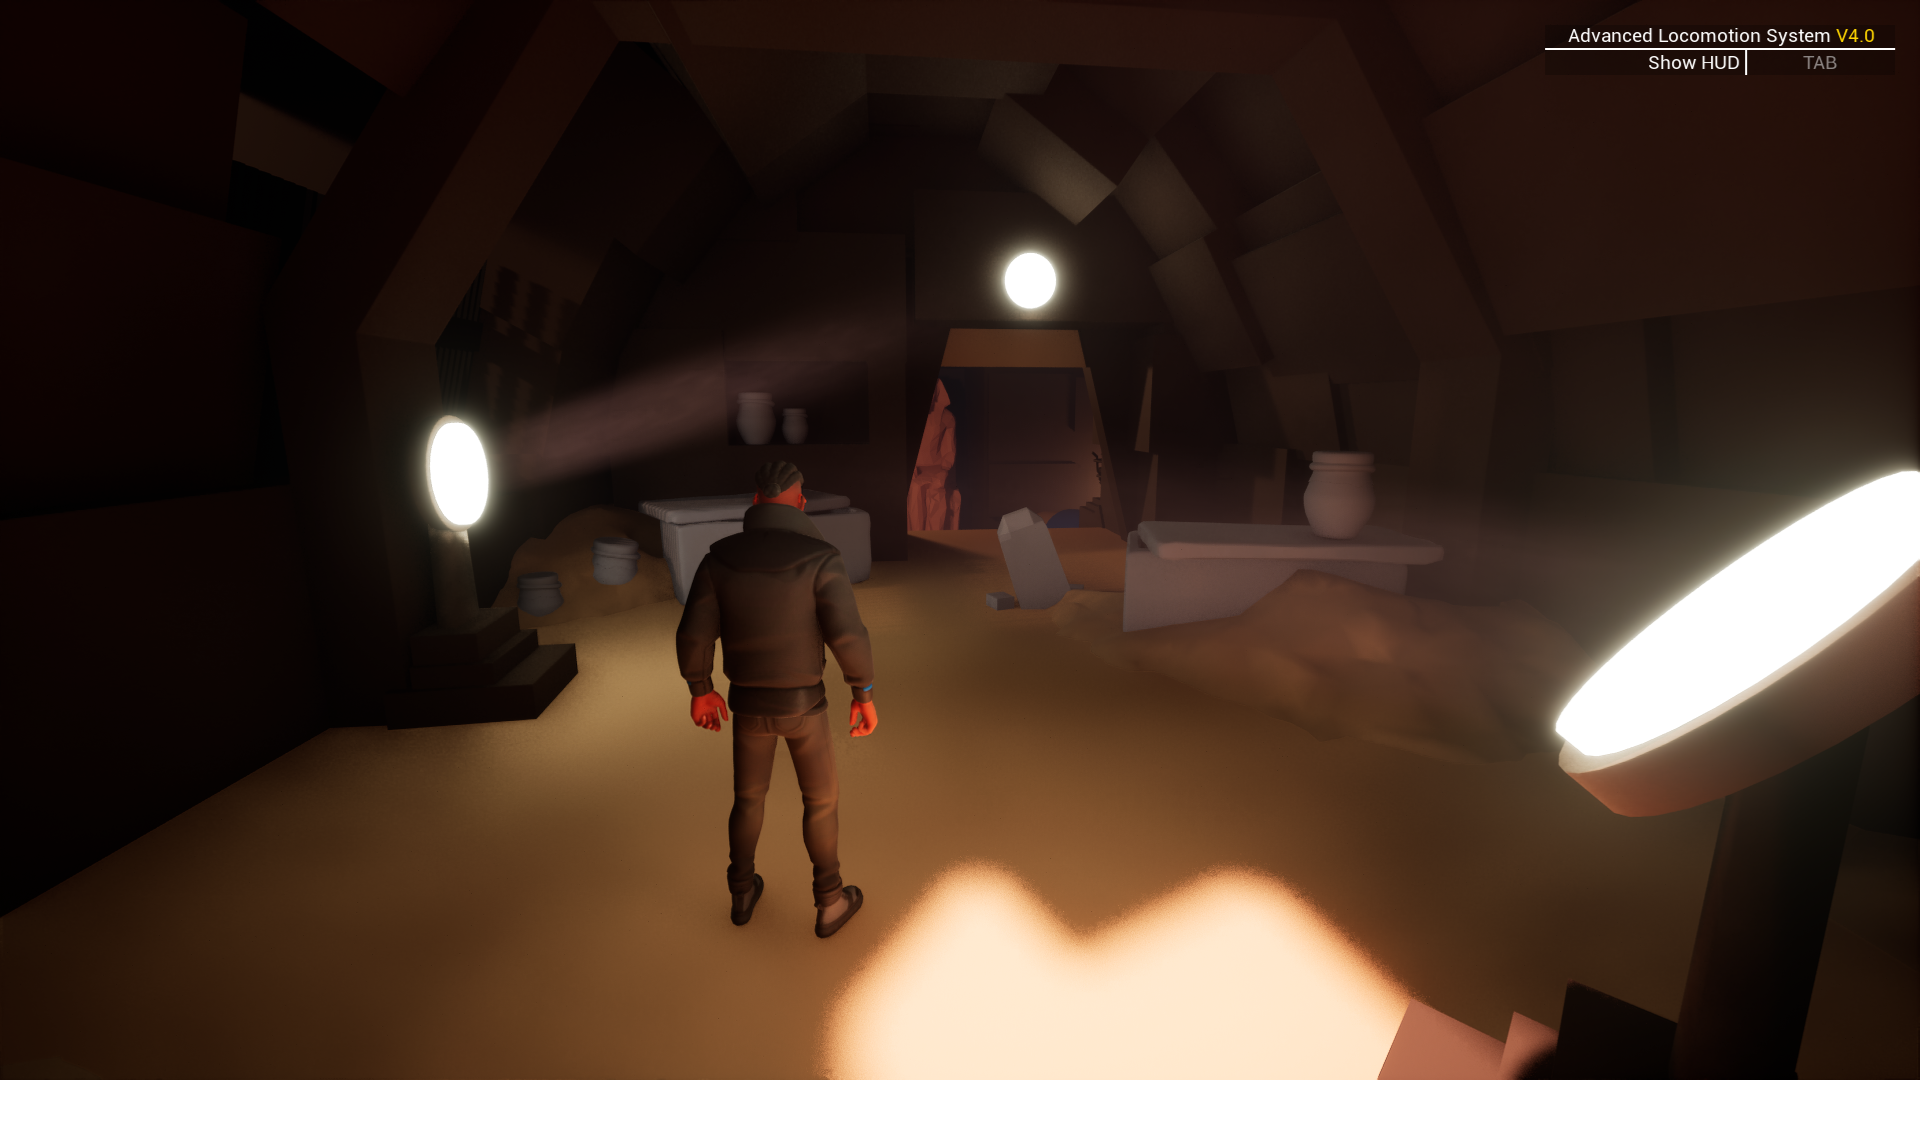
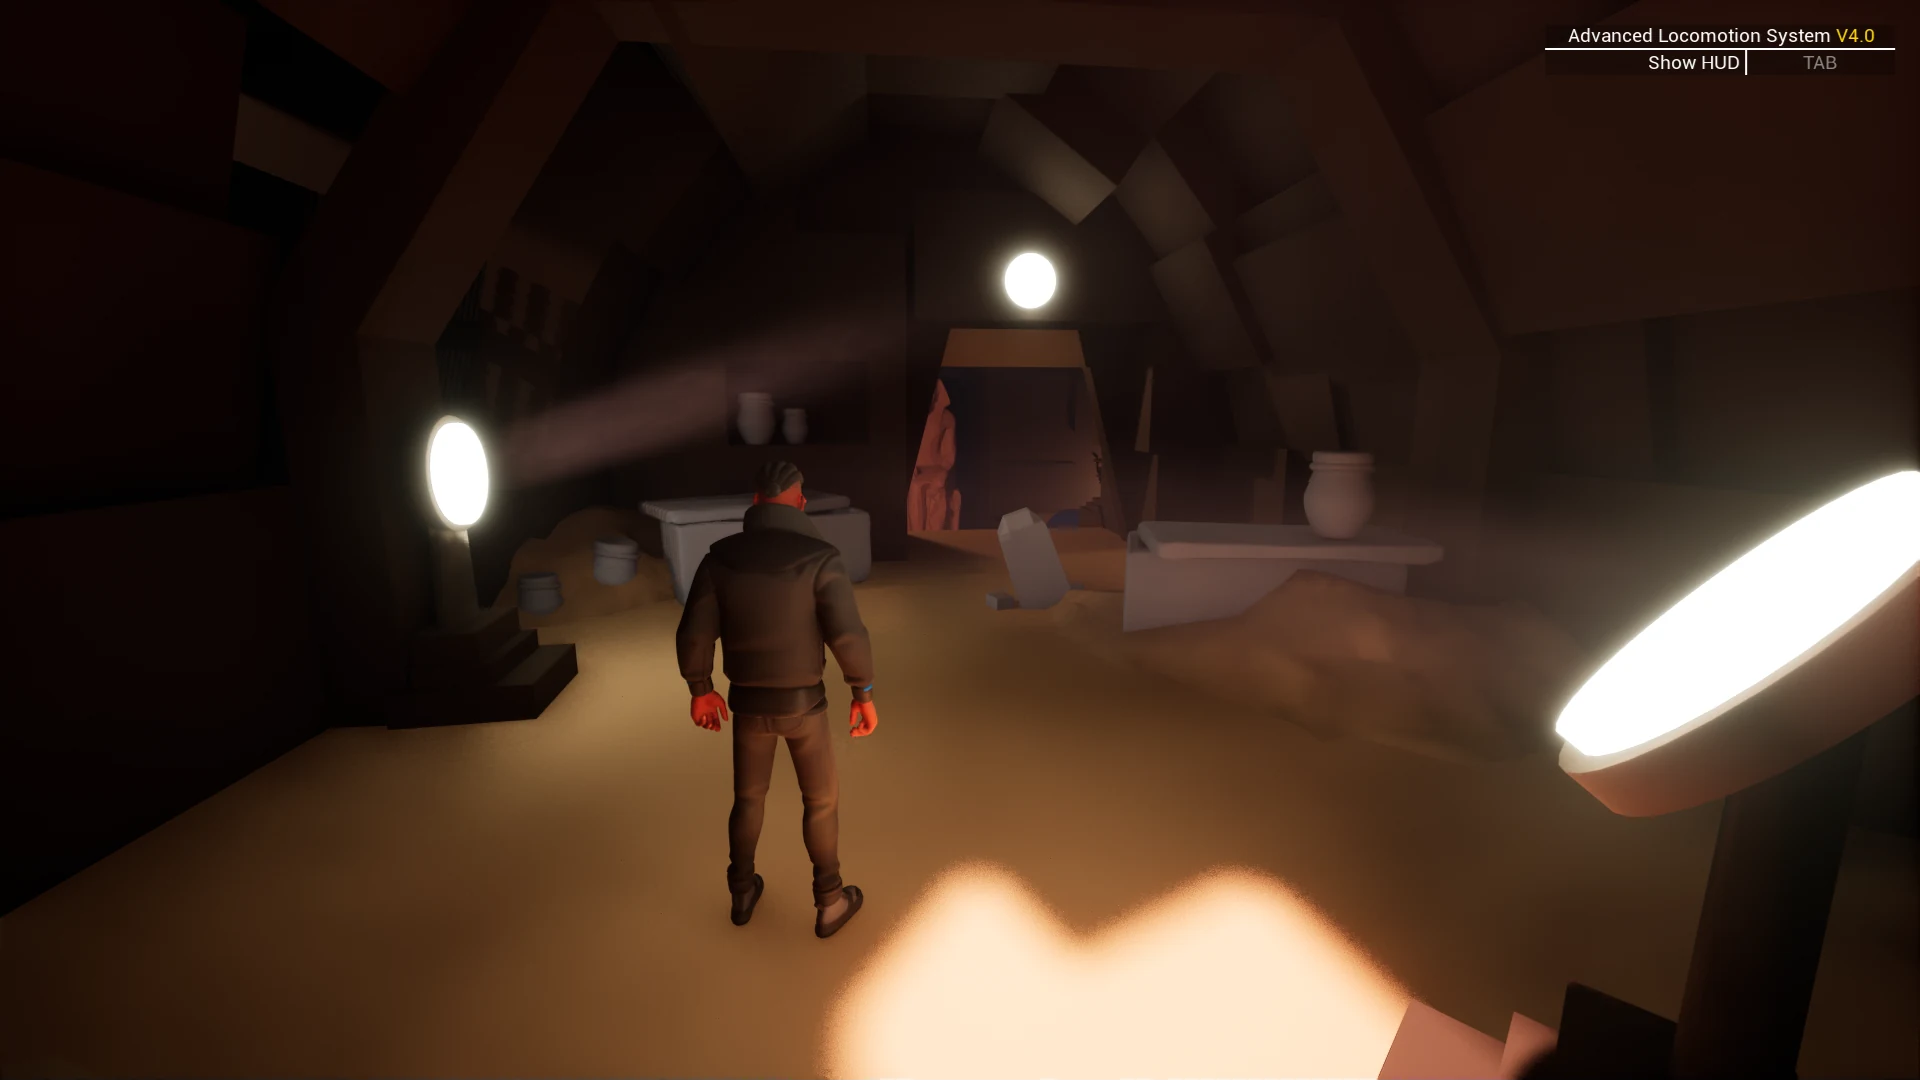
Final polish

diff --git a/public/level-design/styles.css b/public/level-design/styles.css
@@ -333,7 +333,7 @@ img, svg { display: block; max-width: 100%; }
 .tool-list {
   list-style: none;
   display: grid;
-  grid-template-columns: repeat(auto-fit, minmax(180px, 1fr));
+  grid-template-columns: repeat(3, 1fr);
   gap: 1rem;
 }
 .tool-list li {
@@ -352,10 +352,35 @@ img, svg { display: block; max-width: 100%; }
 
 /* ===== Work grid ===== */
 .work {
+  padding: clamp(2rem, 5vw, 3rem) var(--pad);
+  max-width: var(--maxw);
+  margin: 0 auto;
+}
+
+/* ===== Screenshots gallery ===== */
+.shots {
   padding: clamp(2rem, 5vw, 3rem) var(--pad) clamp(4rem, 8vw, 6rem);
   max-width: var(--maxw);
   margin: 0 auto;
 }
+.shot-grid {
+  display: grid;
+  grid-template-columns: repeat(auto-fit, minmax(300px, 1fr));
+  gap: clamp(0.75rem, 1.5vw, 1.25rem);
+}
+.shot {
+  display: block;
+  padding: 0;
+  aspect-ratio: 16 / 9;
+  border: 4px solid var(--blue);
+  border-radius: var(--radius);
+  background: var(--black);
+  overflow: hidden;
+  cursor: zoom-in;
+  transition: box-shadow 0.2s ease, transform 0.2s ease;
+}
+.shot img { width: 100%; height: 100%; object-fit: cover; display: block; }
+.shot:hover { transform: translateY(-3px); box-shadow: 0 12px 30px rgba(29, 18, 255, 0.25); }
 .project-grid {
   display: flex;
   flex-direction: column;
@@ -383,6 +408,7 @@ img, svg { display: block; max-width: 100%; }
   color: #666;
   margin-bottom: 0.6rem;
   font-weight: 600;
+  max-width: none; /* the tag line uses the full column; don't inherit the 46ch body cap */
 }
 .project-info p { color: #333; font-size: 0.95rem; max-width: 46ch; margin-bottom: 0.85rem; }
 .project-info p:last-child { margin-bottom: 0; }
@@ -406,6 +432,26 @@ img, svg { display: block; max-width: 100%; }
   font-size: clamp(2rem, 5vw, 3.5rem);
   text-transform: uppercase;
 }
+.footer-contact {
+  display: flex;
+  flex-direction: column;
+  align-items: flex-start;
+  gap: 0.85rem;
+}
+.footer-link {
+  display: inline-flex;
+  align-items: center;
+  gap: 0.5rem;
+  color: var(--white);
+  text-decoration: none;
+  font-weight: 600;
+  text-transform: uppercase;
+  letter-spacing: 0.05em;
+  font-size: 0.85rem;
+  transition: opacity 0.2s ease, transform 0.2s ease;
+}
+.footer-link svg { width: 22px; height: 22px; display: block; flex-shrink: 0; }
+.footer-link:hover { opacity: 0.7; transform: translateY(-2px); }
 .footer-meta {
   max-width: var(--maxw);
   margin: 3rem auto 0;
@@ -463,6 +509,7 @@ img, svg { display: block; max-width: 100%; }
   .about { grid-template-columns: 1fr; }
   .hero-media { order: -1; }
   .about-stairs { margin-top: 1rem; }
+  .tool-list { grid-template-columns: repeat(2, 1fr); }
   /* stack each row to a single column, image-first throughout */
   .project { grid-template-columns: 1fr; }
   .project:nth-child(even) .project-media { order: 0; }
@@ -494,6 +541,10 @@ img, svg { display: block; max-width: 100%; }
   .nav-toggle[aria-expanded="true"] span:nth-child(1) { transform: translateY(8px) rotate(45deg); }
   .nav-toggle[aria-expanded="true"] span:nth-child(2) { opacity: 0; }
   .nav-toggle[aria-expanded="true"] span:nth-child(3) { transform: translateY(-8px) rotate(-45deg); }
+}
+
+@media (max-width: 500px) {
+  .tool-list { grid-template-columns: 1fr; }
 }
 
 @media (prefers-reduced-motion: reduce) {

diff --git a/public/level-design/index.html b/public/level-design/index.html
@@ -5,6 +5,25 @@
   <meta name="viewport" content="width=device-width, initial-scale=1.0" />
   <title>Liam Dobbelaere — Level Design</title>
   <meta name="description" content="Portfolio of Liam Dobbelaere, level designer working in Unity and Unreal Engine." />
+  <link rel="canonical" href="https://liamswift.com/level-design/" />
+  <link rel="icon" href="favicon.svg" type="image/svg+xml" />
+
+  <!-- Open Graph (Facebook, LinkedIn, Discord, …) -->
+  <meta property="og:type" content="website" />
+  <meta property="og:title" content="Liam Dobbelaere — Level Design" />
+  <meta property="og:description" content="Portfolio of Liam Dobbelaere, level designer working in Unity and Unreal Engine." />
+  <meta property="og:url" content="https://liamswift.com/level-design/" />
+  <meta property="og:image" content="https://liamswift.com/level-design/media/ldreel-poster.jpg" />
+  <meta property="og:image:width" content="1920" />
+  <meta property="og:image:height" content="1080" />
+  <meta property="og:site_name" content="Liam Dobbelaere" />
+
+  <!-- Twitter / X -->
+  <meta name="twitter:card" content="summary_large_image" />
+  <meta name="twitter:title" content="Liam Dobbelaere — Level Design" />
+  <meta name="twitter:description" content="Portfolio of Liam Dobbelaere, level designer working in Unity and Unreal Engine." />
+  <meta name="twitter:image" content="https://liamswift.com/level-design/media/ldreel-poster.jpg" />
+
   <link rel="preconnect" href="https://fonts.googleapis.com" />
   <link rel="preconnect" href="https://fonts.gstatic.com" crossorigin />
   <link href="https://fonts.googleapis.com/css2?family=Archivo:wght@400;600;800&family=Archivo+Black&display=swap" rel="stylesheet" />
@@ -19,9 +38,10 @@
         <span></span><span></span><span></span>
       </button>
       <ul class="nav-links">
-        <li><a href="#work">Work</a></li>
         <li><a href="#about">About</a></li>
         <li><a href="#tools">Tools</a></li>
+        <li><a href="#work">Work</a></li>
+        <li><a href="#shots">Screenshots</a></li>
         <li><a href="#contact">Contact</a></li>
       </ul>
     </nav>
@@ -81,8 +101,20 @@
           <span>Unreal Engine</span>
         </li>
         <li>
+          <svg viewBox="0 0 24 24" aria-hidden="true"><path fill="currentColor" d="M12.51 13.214c.046-.8.438-1.506 1.03-2.006a3.424 3.424 0 0 1 2.212-.79c.85 0 1.631.3 2.211.79.592.5.983 1.206 1.028 2.005.045.823-.285 1.586-.865 2.153a3.389 3.389 0 0 1-2.374.938 3.393 3.393 0 0 1-2.376-.938c-.58-.567-.91-1.33-.865-2.152M7.35 14.831c.006.314.106.922.256 1.398a7.372 7.372 0 0 0 1.593 2.757 8.227 8.227 0 0 0 2.787 2.001 8.947 8.947 0 0 0 3.66.76 8.964 8.964 0 0 0 3.657-.772 8.285 8.285 0 0 0 2.785-2.01 7.428 7.428 0 0 0 1.592-2.762 6.964 6.964 0 0 0 .25-3.074 7.123 7.123 0 0 0-1.016-2.779 7.764 7.764 0 0 0-1.852-2.043h.002L13.566 2.55l-.02-.015c-.492-.378-1.319-.376-1.86.002-.547.382-.609 1.015-.123 1.415l-.001.001 3.126 2.543-9.53.01h-.013c-.788.001-1.545.518-1.695 1.172-.154.665.38 1.217 1.2 1.22V8.9l4.83-.01-8.62 6.617-.034.025c-.813.622-1.075 1.658-.563 2.313.52.667 1.625.668 2.447.004L7.414 14s-.069.52-.063.831zm12.09 1.741c-.97.988-2.326 1.548-3.795 1.55-1.47.004-2.827-.552-3.797-1.538a4.51 4.51 0 0 1-1.036-1.622 4.282 4.282 0 0 1 .282-3.519 4.702 4.702 0 0 1 1.153-1.371c.942-.768 2.141-1.183 3.396-1.185 1.256-.002 2.455.41 3.398 1.175.48.391.87.854 1.152 1.367a4.28 4.28 0 0 1 .522 1.706 4.236 4.236 0 0 1-.239 1.811 4.54 4.54 0 0 1-1.035 1.626"/></svg>
+          <span>Blender</span>
+        </li>
+        <li>
           <svg viewBox="0 0 24 24" aria-hidden="true"><path d="M3 17l6-12 4 8 3-5 4 9z" fill="none" stroke="currentColor" stroke-width="2"/></svg>
-          <span>Blockmesh / Greybox</span>
+          <span>Blockmesh / Graybox</span>
+        </li>
+        <li>
+          <svg viewBox="0 0 501.676 560.371" aria-hidden="true"><path fill="currentColor" d="M235.844,108.436c-69.239,0-125.368,56.098-125.368,125.295c0,69.196,56.129,125.296,125.368,125.296s125.368-56.1,125.368-125.296C361.211,164.535,305.083,108.436,235.844,108.436z M235.989,321.507c-48.586,0-87.978-39.365-87.978-87.922c0-48.563,39.391-87.928,87.978-87.928c48.587,0,87.976,39.366,87.976,87.928C323.965,282.142,284.577,321.507,235.989,321.507z"/><path fill="currentColor" d="M420.45,376.607c0,0,49.555-52.313,49.555-144.197C470.004,140.532,398.93,0,237.455,0S1.677,133.935,1.677,239.444c0,105.511,0.884,320.048,0.884,320.048h137.243v-113.42c0,0,42.31,21.979,96.773,21.979c54.462,0,71.261-12.311,71.261-12.311l88.27,104.631l105.568-89.977L420.45,376.607z M241.266,435.226c-95.507,0-134.013-46.309-134.013-46.309v135.988H34.228c0,0,0.296-177.311,0.296-296.306c0-118.989,103.026-196.655,202.053-196.655c99.027,0,201.464,79.568,201.464,200.174C438.042,352.718,336.78,435.226,241.266,435.226z"/></svg>
+          <span>PureRef</span>
+        </li>
+        <li>
+          <svg viewBox="0 0 24 24" aria-hidden="true"><path fill="currentColor" d="M13.09 23.549a1.54 1.54 0 0 1-2.18 0L.451 13.089a1.54 1.54 0 0 1 0-2.179l7.191-7.19 2.733 2.733a1.85 1.85 0 0 0 .964 2.326v6.66a1.849 1.849 0 1 0 1.54 0V8.957l2.508 2.508a1.85 1.85 0 1 0 1.09-1.09l-2.634-2.634a1.85 1.85 0 0 0-2.378-2.377L8.73 2.63 10.91.451a1.54 1.54 0 0 1 2.179 0l10.459 10.46a1.54 1.54 0 0 1 0 2.179z"/></svg>
+          <span>Git</span>
         </li>
       </ul>
     </section>
@@ -94,13 +126,27 @@
         <!-- Project cards are injected by script.js -->
       </div>
     </section>
+
+    <!-- ===== Screenshots ===== -->
+    <section class="shots" id="shots">
+      <h2 class="section-title">Screenshots</h2>
+      <div class="shot-grid">
+        <!-- Screenshot tiles are injected by script.js -->
+      </div>
+    </section>
   </main>
 
   <!-- ===== Footer / Contact ===== -->
   <footer class="site-footer" id="contact">
     <div class="footer-inner">
       <h2>Let's build a level<br />worth replaying.</h2>
-      <a class="btn btn-light" href="mailto:[email redacted]">[email redacted]</a>
+      <div class="footer-contact">
+        <a class="btn btn-light" href="mailto:[email redacted]">[email redacted]</a>
+        <a class="footer-link" href="https://www.linkedin.com/in/liam-dobbelaere/" target="_blank" rel="noopener">
+          <svg viewBox="0 0 24 24" aria-hidden="true" fill="currentColor"><path d="M20.447 20.452h-3.554v-5.569c0-1.328-.027-3.037-1.852-3.037-1.853 0-2.136 1.445-2.136 2.939v5.667H9.351V9h3.414v1.561h.046c.477-.9 1.637-1.85 3.37-1.85 3.601 0 4.267 2.37 4.267 5.455v6.286zM5.337 7.433a2.062 2.062 0 01-2.063-2.065 2.064 2.064 0 112.063 2.065zm1.782 13.019H3.555V9h3.564v11.452zM22.225 0H1.771C.792 0 0 .774 0 1.729v20.542C0 23.227.792 24 1.771 24h20.451C23.2 24 24 23.227 24 22.271V1.729C24 .774 23.2 0 22.222 0h.003z"/></svg>
+          <span>LinkedIn</span>
+        </a>
+      </div>
     </div>
     <div class="footer-meta">
       <span>Liam Dobbelaere — Level Design</span>

diff --git a/public/level-design/script.js b/public/level-design/script.js
@@ -50,6 +50,23 @@ if (grid) {
   });
 }
 
+// ===== Screenshots gallery =====
+// add/remove filenames here (files live in media/screenshots/ as .webp)
+const screenshots = ["a", "b", "c", "d", "e", "f"];
+const shotGrid = document.querySelector(".shot-grid");
+if (shotGrid) {
+  screenshots.forEach((name, i) => {
+    const src = `media/screenshots/${name}.webp`;
+    const btn = document.createElement("button");
+    btn.type = "button";
+    btn.className = "shot reveal";
+    btn.dataset.zoom = src;
+    btn.setAttribute("aria-label", `Enlarge screenshot ${i + 1}`);
+    btn.innerHTML = `<img src="${src}" alt="Level screenshot ${i + 1}" loading="lazy" />`;
+    shotGrid.appendChild(btn);
+  });
+}
+
 // ===== Mobile nav toggle =====
 const nav = document.querySelector(".nav");
 const toggle = document.querySelector(".nav-toggle");